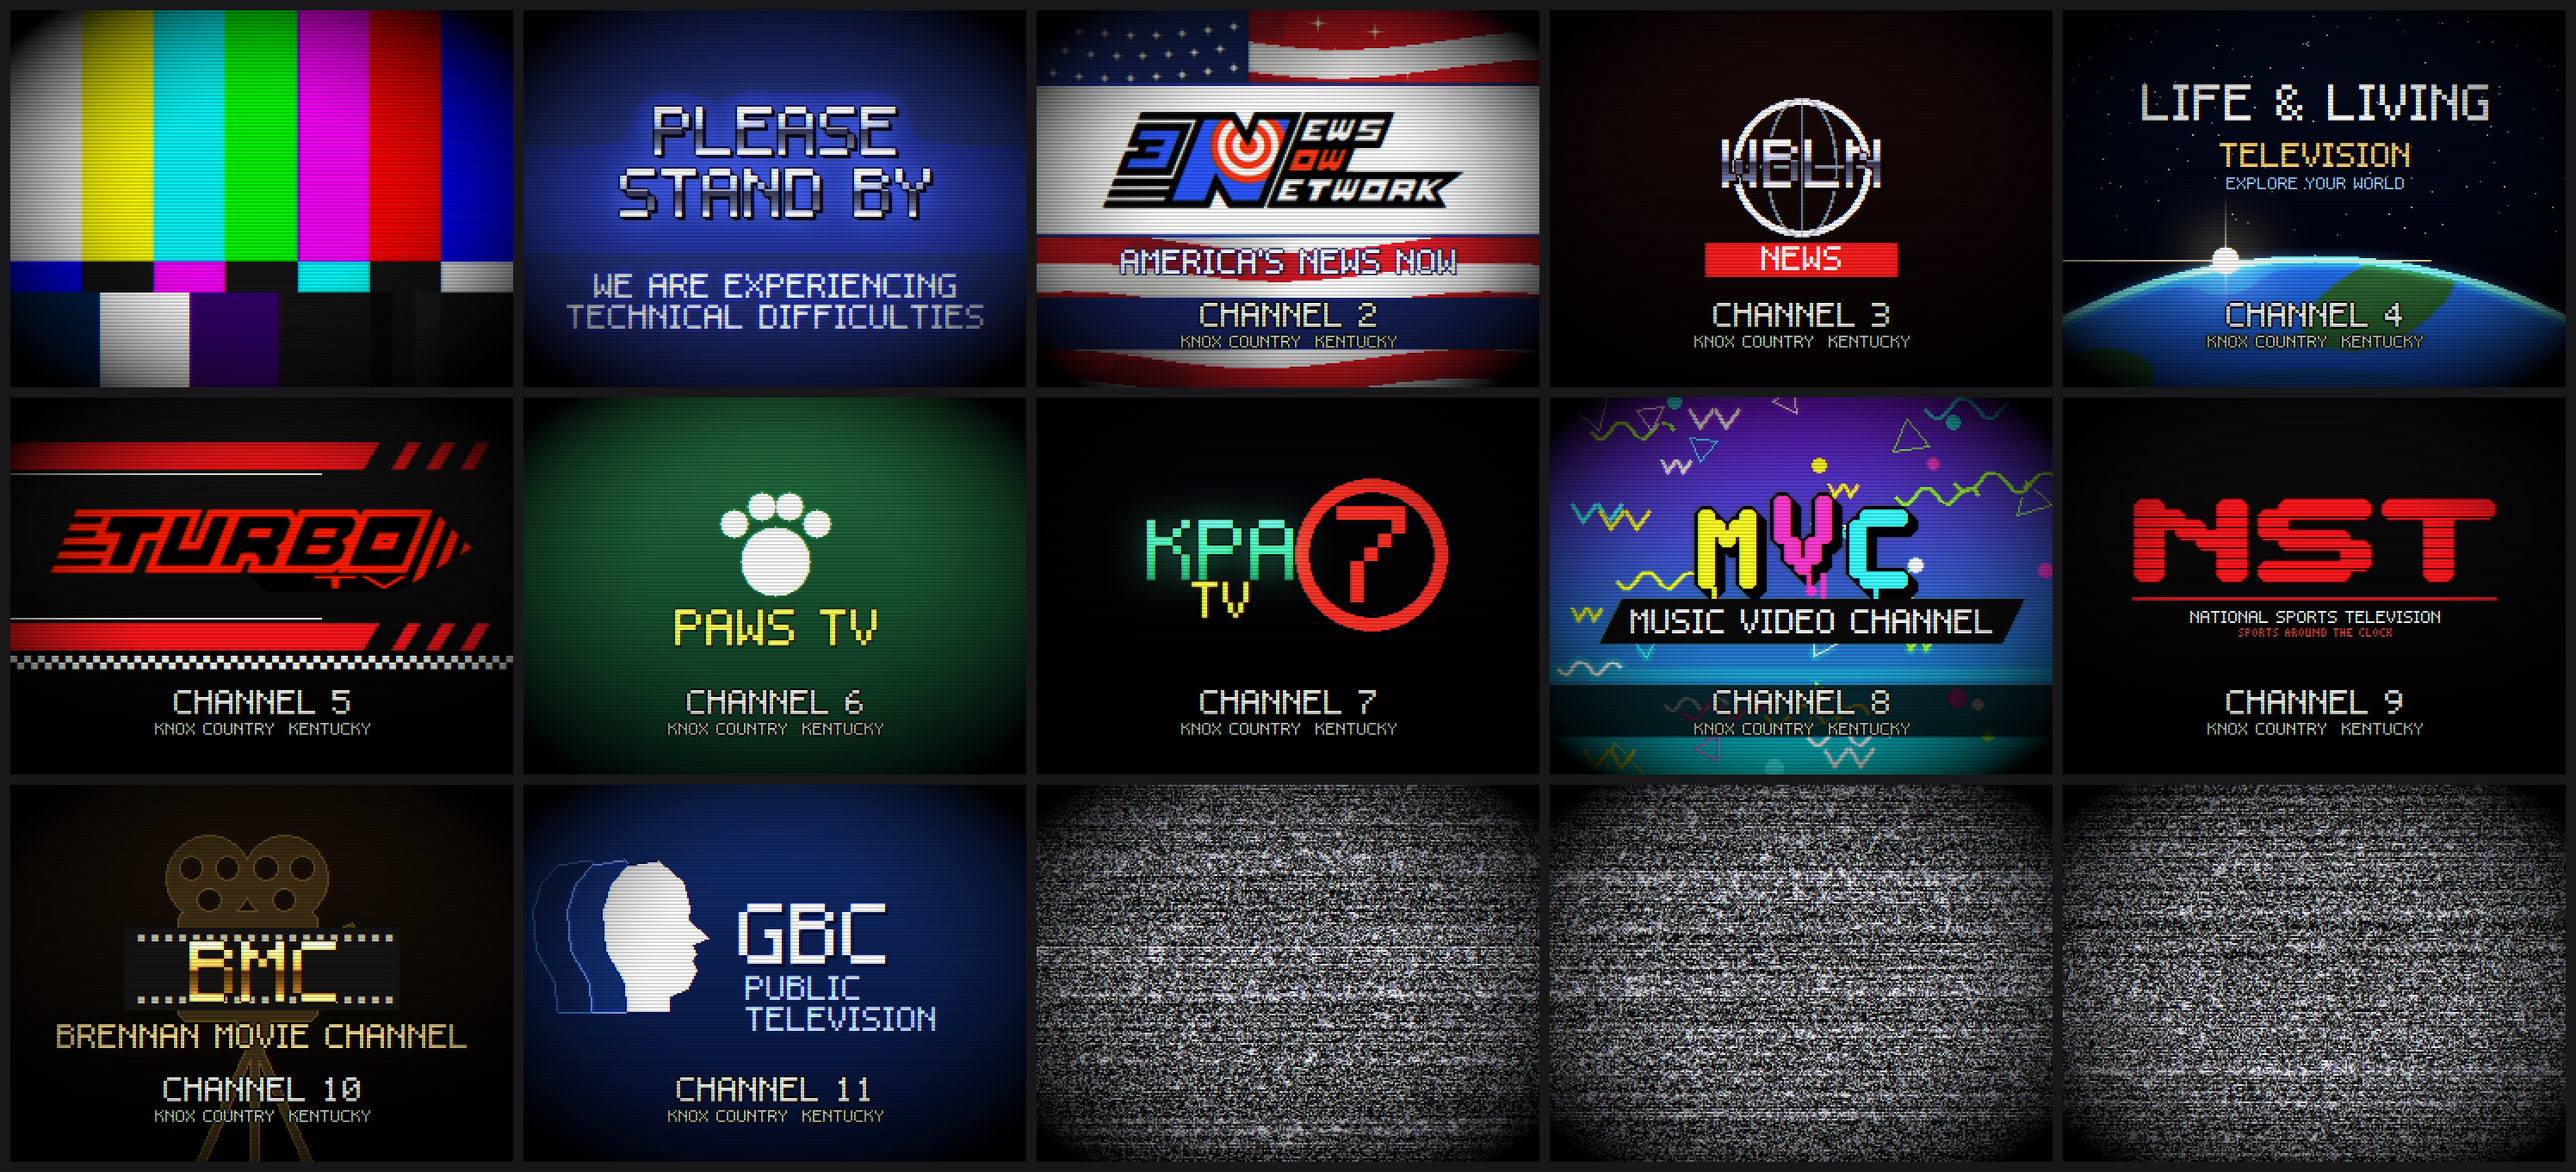
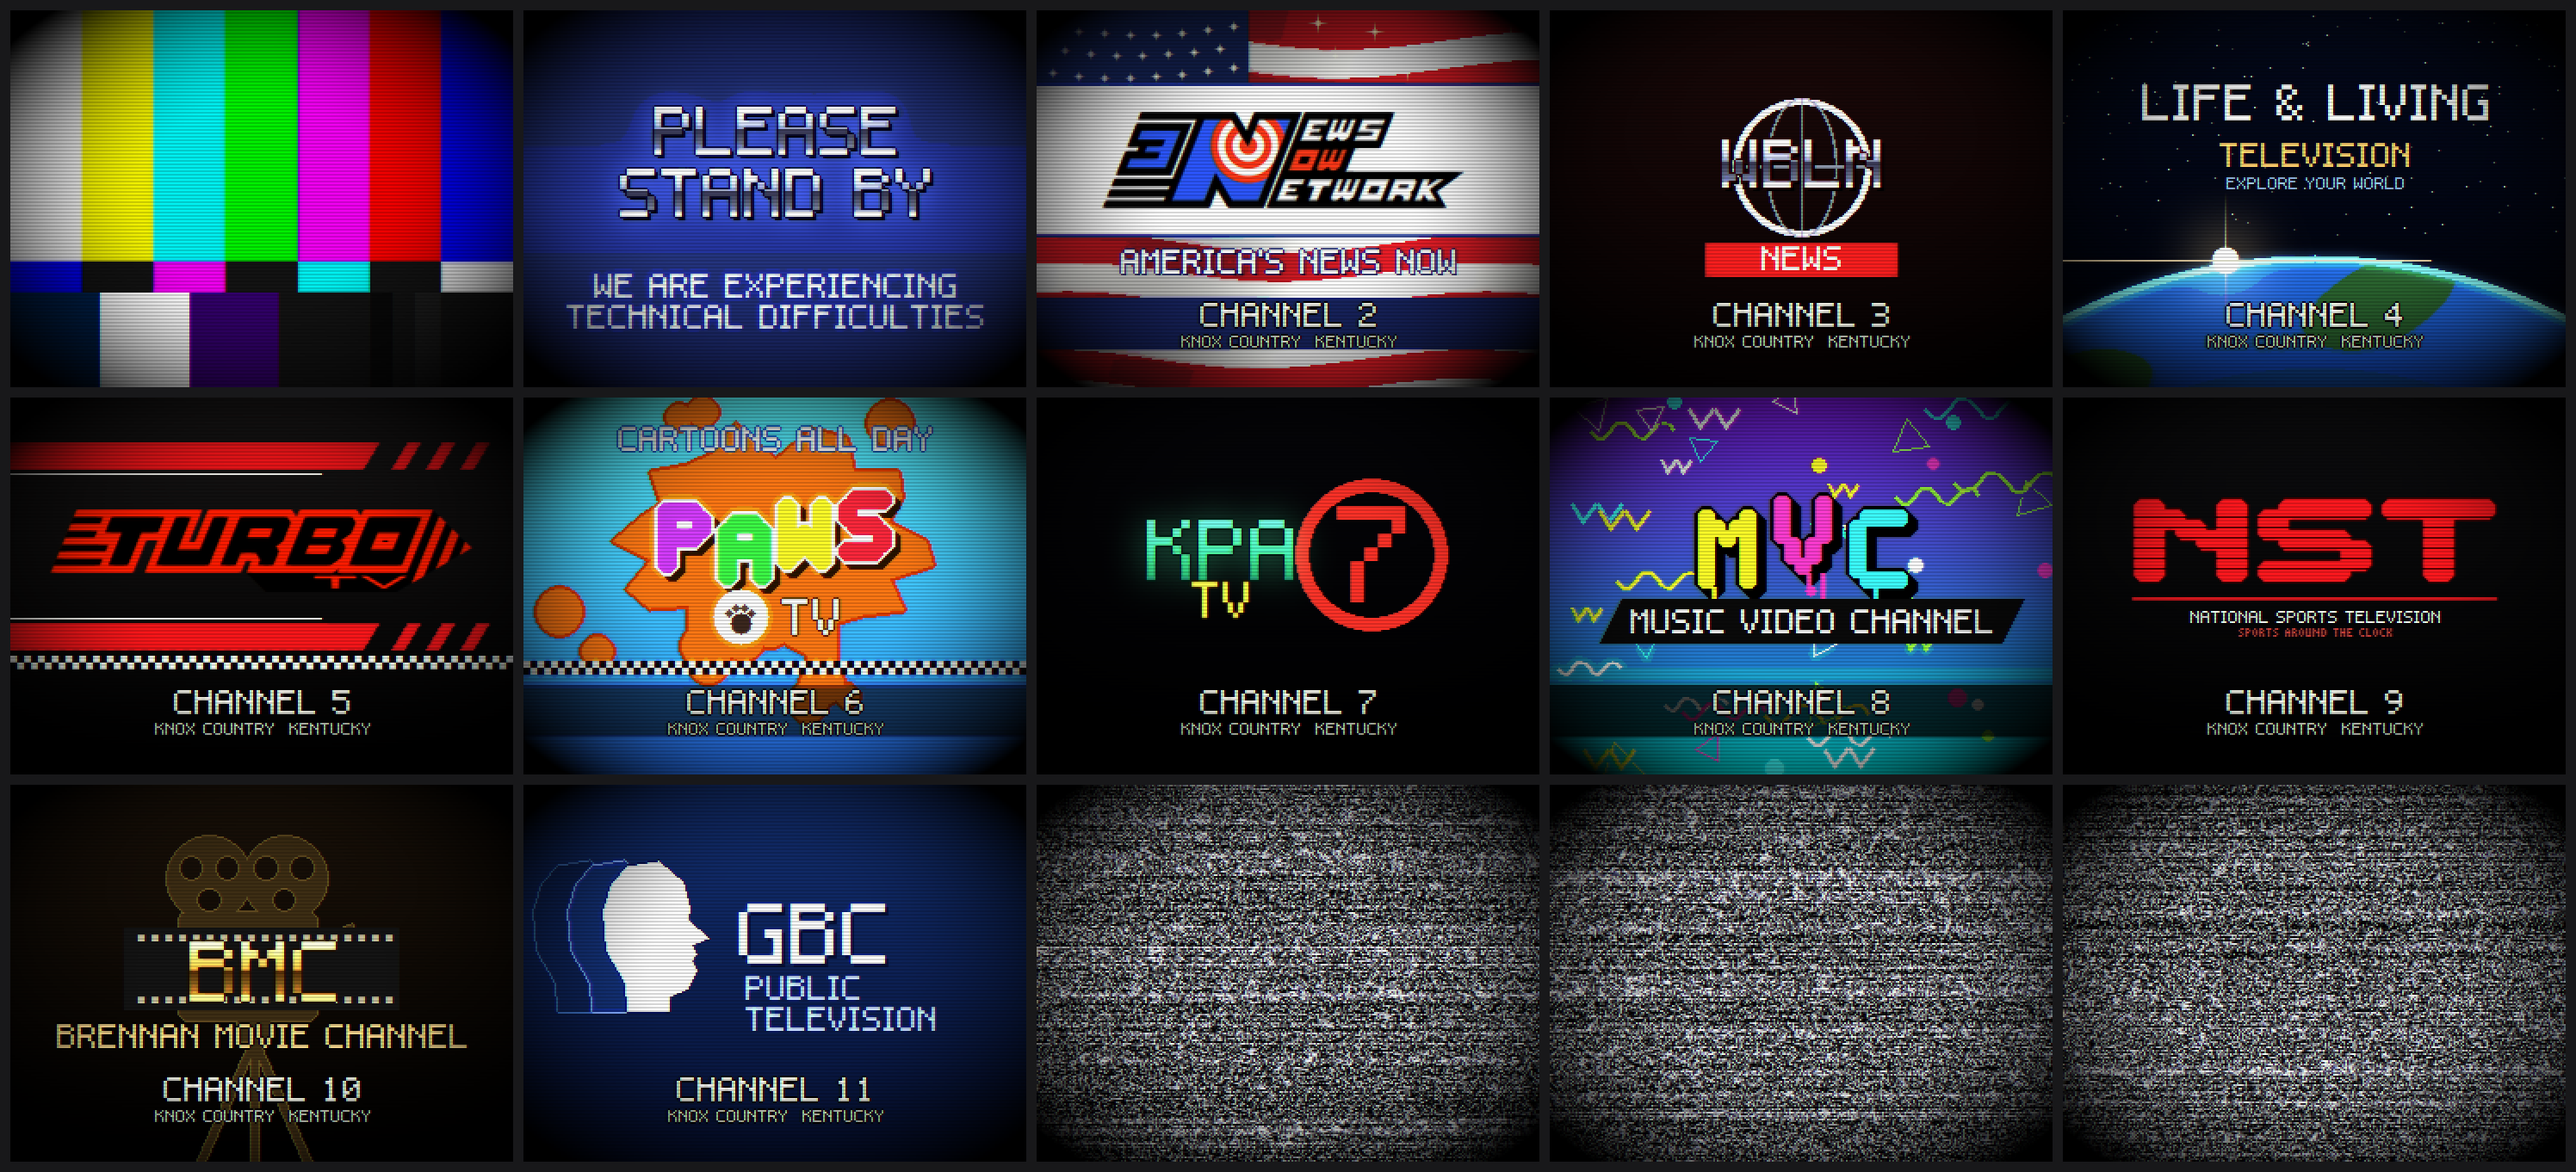
Design: PawsTV card as a cartoon and kids network
Director: Paws is like a cartoon/kids network. A sunny sky field, a big orange paint
splat with drips and flung drops behind bouncy balloon letters (each its own
colour, white outline, shadow), a paw print bug with TV, a black-and-white chequer
strip, CARTOONS ALL DAY.

Claude-Session: https://claude.ai/code/session_015Lv8fXDH1kuxg46sEw6iLh

Changed region(s): [[0.1865, 0.3392, 0.4041, 0.6784]]

diff --git a/ZeDUI/tools/physpx/offair.py b/ZeDUI/tools/physpx/offair.py
@@ -333,13 +333,57 @@ def signoff(cid, w, h):
                 if (k + r) % 2 == 0: rect(a, k * cs, cy0 + r * cs, cs, cs, WHITE)
         game_logo(a, cid)
     elif cid == "paws":
-        a = card_frame(w, h, (40, 120, 70), (10, 50, 30))
-        r = int(5 * s)
-        put(a, disc_mask(r), cx - r, cy - r + s, (250, 240, 220))                          # the pad and four toes
-        for (dx, dy) in ((-1.2, -1.1), (-0.4, -1.6), (0.4, -1.6), (1.2, -1.1)):
-            rr = max(2, int(r * 0.42))
-            put(a, disc_mask(rr), int(cx + dx * r) - rr, int(cy + dy * r) - rr + s, (250, 240, 220))
-        text(a, "PAWS TV", cx, cy + r + 3 * s, max(1, s - 1), (255, 220, 90), outline=(20, 40, 20), shadow=(0, 20, 0))
+        # the cartoon and kids networks of the day (director, Oct 30 2026: "Paws is like a cartoon/kids network"): a
+        # sunny field, a big orange paint splat behind bouncy balloon letters each its own colour, a paw print for the
+        # A's place in the TV bug, a black-and-white chequer strip, CARTOONS ALL DAY
+        a = card_frame(w, h, (90, 200, 255), (40, 120, 230))
+        rng = np.random.default_rng(42)
+        im = Image.new("L", (w, h), 0); dr = ImageDraw.Draw(im)              # the splat: a lumpy blob, its drips
+        R0 = h * 0.26
+        pts = []
+        for k in range(28):
+            ang = k * 2 * math.pi / 28
+            rr = R0 * (1.0 + 0.18 * math.sin(k * 2.3) + float(rng.uniform(-0.08, 0.10)))
+            pts.append((cx + math.cos(ang) * rr * 1.45, cy - 2 * s + math.sin(ang) * rr))
+        dr.polygon(pts, fill=255)
+        for k in range(5):                                                    # drips and flung drops
+            dx_ = cx + int(rng.uniform(-R0, R0)); dl = int(rng.uniform(0.15, 0.35) * h)
+            dr.rectangle([dx_ - 2 * s, cy, dx_ + 2 * s, cy + dl], fill=255)
+            dr.ellipse([dx_ - 3 * s, cy + dl - 3 * s, dx_ + 3 * s, cy + dl + 3 * s], fill=255)
+        for k in range(7):
+            ang = rng.uniform(0, 2 * math.pi); rr = R0 * 1.7
+            x, y = cx + math.cos(ang) * rr * 1.4, cy + math.sin(ang) * rr * 0.9
+            r_ = float(rng.uniform(1.5, 3.5)) * s; dr.ellipse([x - r_, y - r_, x + r_, y + r_], fill=255)
+        splat = np.asarray(im) > 127
+        a[grow(splat, 2) & ~splat] = np.array((180, 60, 0), np.float32) / 255
+        a[splat] = np.array((255, 120, 20), np.float32) / 255
+        sc = s + 1                                                             # the balloon letters
+        word = "PAWS"
+        colors = ((170, 60, 230), (60, 200, 70), (255, 230, 40), (230, 40, 60))
+        widths = [glyph_mask(c, "57", sc).shape[1] + 2 * (s // 2 + 1) for c in word]
+        x = cx - (sum(widths) + 3 * s) // 2
+        for i, (c, col) in enumerate(zip(word, colors)):
+            gw_ = s // 2 + 1
+            m = grow(pad_to(glyph_mask(c, "57", sc), gw_), gw_)
+            y = cy - 6 * sc + int(math.sin(i * 1.7) * 2 * s)
+            put(a, grow(pad_to(m, 2), 2), x - 2 + s // 2 + 1, y - 2 + s // 2 + 1, (40, 20, 0))   # shadow
+            put(a, grow(pad_to(m, 2), 2), x - 2, y - 2, (255, 255, 255))                         # white outline
+            put(a, m, x, y, col)
+            x += widths[i] + s
+        # the TV bug: a paw print in a white disc, with TV beside it
+        pr = int(3 * s); bx, by = cx - 5 * s, cy + 9 * s                   # under the letters
+        put(a, disc_mask(pr + s), bx - pr - s, by - pr - s, (255, 255, 255))
+        put(a, disc_mask(int(pr * 0.5)), bx - int(pr * 0.5), by - int(pr * 0.5) + s, (60, 40, 30))
+        for (dx, dy) in ((-0.55, -0.45), (-0.2, -0.75), (0.2, -0.75), (0.55, -0.45)):
+            rr = max(1, int(pr * 0.22)); put(a, disc_mask(rr), int(bx + dx * pr) - rr, int(by + dy * pr) - rr + s, (60, 40, 30))
+        text(a, "TV", bx + pr + 3 * s, by - 7 * max(1, s - 1) // 2, max(1, s - 1), (255, 255, 255), align="l", outline=(40, 20, 0))
+        cs = max(3, s)                                                         # the chequer strip
+        cy0 = int(h * 0.70)
+        for k in range(0, w // cs + 1):
+            for r in range(2):
+                rect(a, k * cs, cy0 + r * cs, cs, cs, (255, 255, 255) if (k + r) % 2 == 0 else (10, 10, 10))
+        text(a, "CARTOONS ALL DAY", cx, int(h * 0.08), max(1, s // 2), (255, 255, 255), outline=(20, 60, 140))
+        a[int(h * 0.78) - 3:int(h * 0.78) - 3 + 8 * max(1, s // 2) + 14] *= 0.45
     elif cid == "kpa":
         a = card_frame(w, h, (6, 6, 10), (0, 0, 0))
         r = int(11 * s)                                                                     # the big ring numeral
